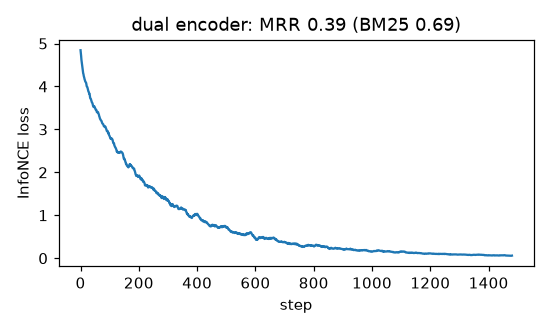
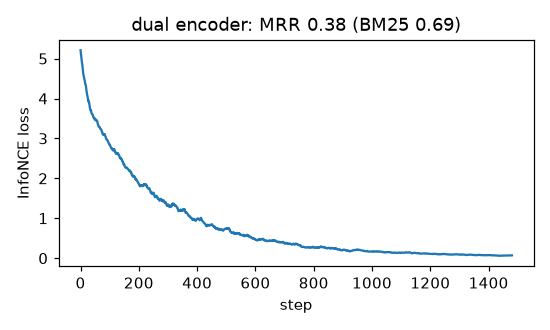
rl: bandits (epsilon-greedy, UCB1, Thompson sampling) + tests

diff --git a/s6_rl/bandits/impl.py b/s6_rl/bandits/impl.py
@@ -1,0 +1,108 @@
+"""Multi-armed bandits: epsilon-greedy, UCB1, Thompson sampling (Bernoulli rewards)."""
+
+from __future__ import annotations
+
+import numpy as np
+
+
+class BernoulliBandit:
+    """k slot machines; arm a pays 1 with probability p[a], else 0."""
+
+    def __init__(self, probs: np.ndarray, seed: int = 0) -> None:
+        self.p = np.asarray(probs, dtype=float)
+        self.rng = np.random.default_rng(seed)
+
+    @property
+    def k(self) -> int:
+        return len(self.p)
+
+    def pull(self, arm: int) -> float:
+        return float(self.rng.random() < self.p[arm])
+
+
+class Agent:
+    def __init__(self, k: int, seed: int = 0) -> None:
+        self.counts = np.zeros(k)
+        self.values = np.zeros(k)  # running mean reward per arm
+        self.rng = np.random.default_rng(seed)
+        self.t = 0
+
+    def select(self) -> int:
+        raise NotImplementedError
+
+    def update(self, arm: int, reward: float) -> None:
+        self.t += 1
+        self.counts[arm] += 1
+        self.values[arm] += (reward - self.values[arm]) / self.counts[arm]  # incremental mean
+
+
+class EpsilonGreedy(Agent):
+    """With probability epsilon pick a random arm (explore), otherwise the best so far (exploit).
+    A fixed epsilon keeps exploring forever, so regret grows linearly in the long run."""
+
+    def __init__(self, k: int, epsilon: float = 0.1, seed: int = 0) -> None:
+        super().__init__(k, seed)
+        self.epsilon = epsilon
+
+    def select(self) -> int:
+        if self.rng.random() < self.epsilon:
+            return int(self.rng.integers(len(self.values)))
+        best = np.flatnonzero(self.values == self.values.max())
+        return int(self.rng.choice(best))  # break ties randomly
+
+
+class UCB1(Agent):
+    """Optimism in the face of uncertainty: pick argmax  mean + sqrt(2 ln t / n).
+
+    The bonus is large for rarely tried arms and shrinks as an arm is sampled, so
+    every arm keeps being checked occasionally, but less and less. Regret O(log T).
+    """
+
+    def select(self) -> int:
+        untried = np.flatnonzero(self.counts == 0)
+        if len(untried):
+            return int(untried[0])
+        bonus = np.sqrt(2 * np.log(self.t) / self.counts)
+        return int(np.argmax(self.values + bonus))
+
+
+class ThompsonSampling(Agent):
+    """Bayesian: keep a Beta(successes + 1, failures + 1) posterior for each arm, draw one
+    sample from each posterior, and play the arm whose sample is largest. An arm is played
+    with exactly the probability that it is the best one, given the data so far."""
+
+    def __init__(self, k: int, seed: int = 0) -> None:
+        super().__init__(k, seed)
+        self.alpha = np.ones(k)
+        self.beta = np.ones(k)
+
+    def select(self) -> int:
+        return int(np.argmax(self.rng.beta(self.alpha, self.beta)))
+
+    def update(self, arm: int, reward: float) -> None:
+        super().update(arm, reward)
+        self.alpha[arm] += reward
+        self.beta[arm] += 1 - reward
+
+
+def run(bandit: BernoulliBandit, agent: Agent, steps: int) -> np.ndarray:
+    """Cumulative (pseudo-)regret: sum over time of (best arm's mean - chosen arm's mean)."""
+    best = bandit.p.max()
+    regret = np.zeros(steps)
+    total = 0.0
+    for t in range(steps):
+        arm = agent.select()
+        agent.update(arm, bandit.pull(arm))
+        total += best - bandit.p[arm]
+        regret[t] = total
+    return regret
+
+
+def average_regret(agent_factory, probs, steps: int, runs: int, seed: int = 0) -> np.ndarray:
+    return np.mean(
+        [
+            run(BernoulliBandit(probs, seed=seed + r), agent_factory(seed + 1000 + r), steps)
+            for r in range(runs)
+        ],
+        axis=0,
+    )

diff --git a/s6_rl/bandits/test_impl.py b/s6_rl/bandits/test_impl.py
@@ -1,0 +1,96 @@
+from pathlib import Path
+
+import numpy as np
+import pytest
+
+from .impl import UCB1, Agent, BernoulliBandit, EpsilonGreedy, ThompsonSampling, average_regret, run
+
+PROBS = np.array([0.1, 0.3, 0.5, 0.55, 0.7])
+
+
+def test_incremental_mean_and_posterior():
+    agent = Agent(2)
+    for r in [1, 0, 1, 1]:
+        agent.update(0, r)
+    assert agent.values[0] == pytest.approx(0.75) and agent.counts[0] == 4
+    ts = ThompsonSampling(2)
+    for r in [1, 1, 0]:
+        ts.update(1, r)
+    assert (ts.alpha[1], ts.beta[1]) == (3, 2)
+
+
+def test_ucb_tries_every_arm_first_then_follows_the_formula():
+    agent = UCB1(4)
+    chosen = []
+    for _ in range(4):
+        a = agent.select()
+        chosen.append(a)
+        agent.update(a, 0.5)
+    assert sorted(chosen) == [0, 1, 2, 3]
+    agent.values[:] = [0.2, 0.9, 0.5, 0.5]
+    agent.counts[:] = [1, 100, 10, 1]
+    agent.t = 112
+    expected = np.argmax(agent.values + np.sqrt(2 * np.log(112) / agent.counts))
+    assert agent.select() == expected == 3  # barely-tried arm wins on optimism
+
+
+def test_regret_is_zero_when_always_playing_the_best_arm():
+    class Oracle(Agent):
+        def select(self):
+            return int(np.argmax(PROBS))
+
+    assert run(BernoulliBandit(PROBS), Oracle(5), 100)[-1] == 0
+
+
+@pytest.mark.parametrize(
+    "factory",
+    [lambda s: EpsilonGreedy(5, 0.1, s), lambda s: UCB1(5, s), lambda s: ThompsonSampling(5, s)],
+    ids=["eps-greedy", "ucb1", "thompson"],
+)
+def test_every_strategy_beats_random_play_and_finds_the_best_arm(factory):
+    steps = 3000
+    regret = average_regret(factory, PROBS, steps, runs=20)
+    random_regret = steps * (PROBS.max() - PROBS.mean())
+    assert regret[-1] < 0.3 * random_regret
+    agent = factory(7)
+    run(BernoulliBandit(PROBS, seed=7), agent, steps)
+    assert np.argmax(agent.counts) == 4
+
+
+def test_logarithmic_vs_linear_regret_and_save_plot():
+    steps = 5000
+    curves = {
+        "random": np.arange(1, steps + 1) * (PROBS.max() - PROBS.mean()),
+        "eps-greedy 0.1": average_regret(lambda s: EpsilonGreedy(5, 0.1, s), PROBS, steps, 30),
+        "UCB1": average_regret(lambda s: UCB1(5, s), PROBS, steps, 30),
+        "Thompson": average_regret(lambda s: ThompsonSampling(5, s), PROBS, steps, 30),
+    }
+    # Fixed-epsilon exploration never stops: regret keeps growing at a constant rate.
+    eps = curves["eps-greedy 0.1"]
+    late_rate_eps = (eps[-1] - eps[steps // 2]) / (steps // 2)
+    # Exploring with prob. 0.1 costs about 0.1 * (best - average arm) per step, forever.
+    expected_rate = 0.1 * (PROBS.max() - PROBS.mean())
+    assert late_rate_eps > 0.5 * expected_rate
+    for name in ("UCB1", "Thompson"):
+        c = curves[name]
+        late_rate = (c[-1] - c[steps // 2]) / (steps // 2)
+        early_rate = c[steps // 10] / (steps // 10)
+        assert late_rate < 0.5 * early_rate  # sub-linear: learning slows the regret growth
+    assert curves["Thompson"][-1] < curves["eps-greedy 0.1"][-1]
+
+    import matplotlib.pyplot as plt
+
+    fig, ax = plt.subplots(figsize=(5, 3))
+    for name, c in curves.items():
+        ax.plot(c, label=f"{name} ({c[-1]:.0f})")
+    ax.set(
+        xlabel="step",
+        ylabel="cumulative regret",
+        yscale="log",
+        title="5-armed Bernoulli bandit, 30 runs",
+    )
+    ax.legend(fontsize=8)
+    fig.tight_layout()
+    fig.savefig(Path(__file__).parent / "training_curve.png", dpi=110)
+    plt.close(fig)
+    print({k: round(float(v[-1]), 1) for k, v in curves.items()})

diff --git a/s6_rl/bandits/NOTES.md b/s6_rl/bandits/NOTES.md
@@ -1,0 +1,64 @@
+# Multi-armed bandits: epsilon-greedy, UCB, Thompson sampling
+
+![cumulative regret](training_curve.png)
+
+**Final metric:** 5 Bernoulli arms with success rates 0.10, 0.30, 0.50, 0.55, 0.70; cumulative regret
+after 5,000 pulls, averaged over 30 runs (lower is better):
+
+| strategy | regret |
+|---|---|
+| random play | 1,350 |
+| ε-greedy (ε = 0.1) | 143 |
+| UCB1 | 152 |
+| **Thompson sampling** | **32** |
+
+ε-greedy's regret keeps growing at a constant rate (it explores 10% of the time forever); UCB1's and
+Thompson's growth slows down (sub-linear, ~log T), both tested. UCB1 is close to ε-greedy at this
+horizon because its exploration bonus is conservative; it pulls ahead over longer runs.
+
+## Intuition
+You face several slot machines with unknown payout rates and a fixed number of pulls. Every pull spent
+on a machine you're unsure about is *exploration*; every pull on the current favourite is *exploitation*.
+Too little exploration and you may get stuck on a mediocre arm; too much and you waste pulls.
+
+- **ε-greedy:** usually play the best-looking arm, occasionally a random one.
+- **UCB:** be optimistic: score each arm by its average *plus* a bonus that is large when it has been
+  tried only a few times; play the highest score.
+- **Thompson sampling:** keep a belief (a probability distribution) about each arm's rate; imagine one
+  plausible rate per arm by sampling from those beliefs; play the arm whose imagined rate is highest.
+  Uncertain arms sometimes get lucky draws and get explored; clearly bad arms rarely do.
+
+## Core math
+- Regret: `R_T = Σₜ (μ* − μ_{aₜ})` (pseudo-regret, using true means).
+- Incremental mean: `Q ← Q + (r − Q)/n`.
+- UCB1 (Auer et al. 2002): `aₜ = argmax_a Q_a + √(2 ln t / n_a)`, regret `O(Σ_{a} ln T / Δ_a)`.
+- Thompson (Beta-Bernoulli): posterior `Beta(1 + successes, 1 + failures)`; sample `θ_a`, play `argmax θ_a`;
+  also logarithmic regret, often the best in practice.
+- Lai-Robbins lower bound: any consistent strategy needs Ω(log T) regret.
+
+## Complexity
+O(k) per step for all three (a Beta sample per arm for Thompson). Memory O(k).
+
+## Common pitfalls
+- Fixed ε: linear regret; decay it (e.g. ε ∝ 1/t) or use UCB/Thompson.
+- Forgetting to try every arm once before UCB (division by zero).
+- Ties: always picking arm 0 among equal estimates biases ε-greedy; break ties randomly.
+- Non-stationary rewards: plain averages adapt slowly; use a constant step size or sliding windows.
+- Measuring regret with realised rewards (noisy) instead of the true means when you know them.
+
+## When to use vs. alternatives
+- A/B/n testing with adaptive traffic, recommendation and ad selection, hyperparameter search,
+  clinical-trial-like allocation.
+- Context matters (user features) → contextual bandits (LinUCB, neural Thompson). Actions change future
+  states → full reinforcement learning (`dynamic_programming`, `td_learning`).
+
+## Interview questions
+1. **What is the exploration-exploitation trade-off?** Gathering information about uncertain options vs
+   using the best-known option.
+2. **Why does UCB work?** Optimism: an arm is played either because it is good or because it is uncertain;
+   the bonus shrinks with more pulls, so bad arms are tried only O(log T) times.
+3. **How does Thompson sampling explore?** Through posterior uncertainty: each arm is chosen with the
+   probability that it is optimal.
+4. **Regret of ε-greedy with fixed ε?** Linear in T, because it keeps exploring at a constant rate.
+5. **Bandits vs A/B tests?** A/B tests split traffic evenly and pay full regret during the test;
+   bandits shift traffic toward the winner as evidence accumulates.

diff --git a/CURRICULUM.md b/CURRICULUM.md
@@ -107,7 +107,7 @@ NumPy only until the autograd engines are built; PyTorch allowed from `resnet_bl
 
 ## Section 6 - Reinforcement learning (`s6_rl/`)
 
-- [ ] `s6_rl/bandits` — epsilon-greedy, UCB, Thompson sampling
+- [x] `s6_rl/bandits` — epsilon-greedy, UCB, Thompson sampling
 - [ ] `s6_rl/dynamic_programming` — value iteration, policy iteration
 - [ ] `s6_rl/td_learning` — Q-learning, SARSA on a gridworld
 
